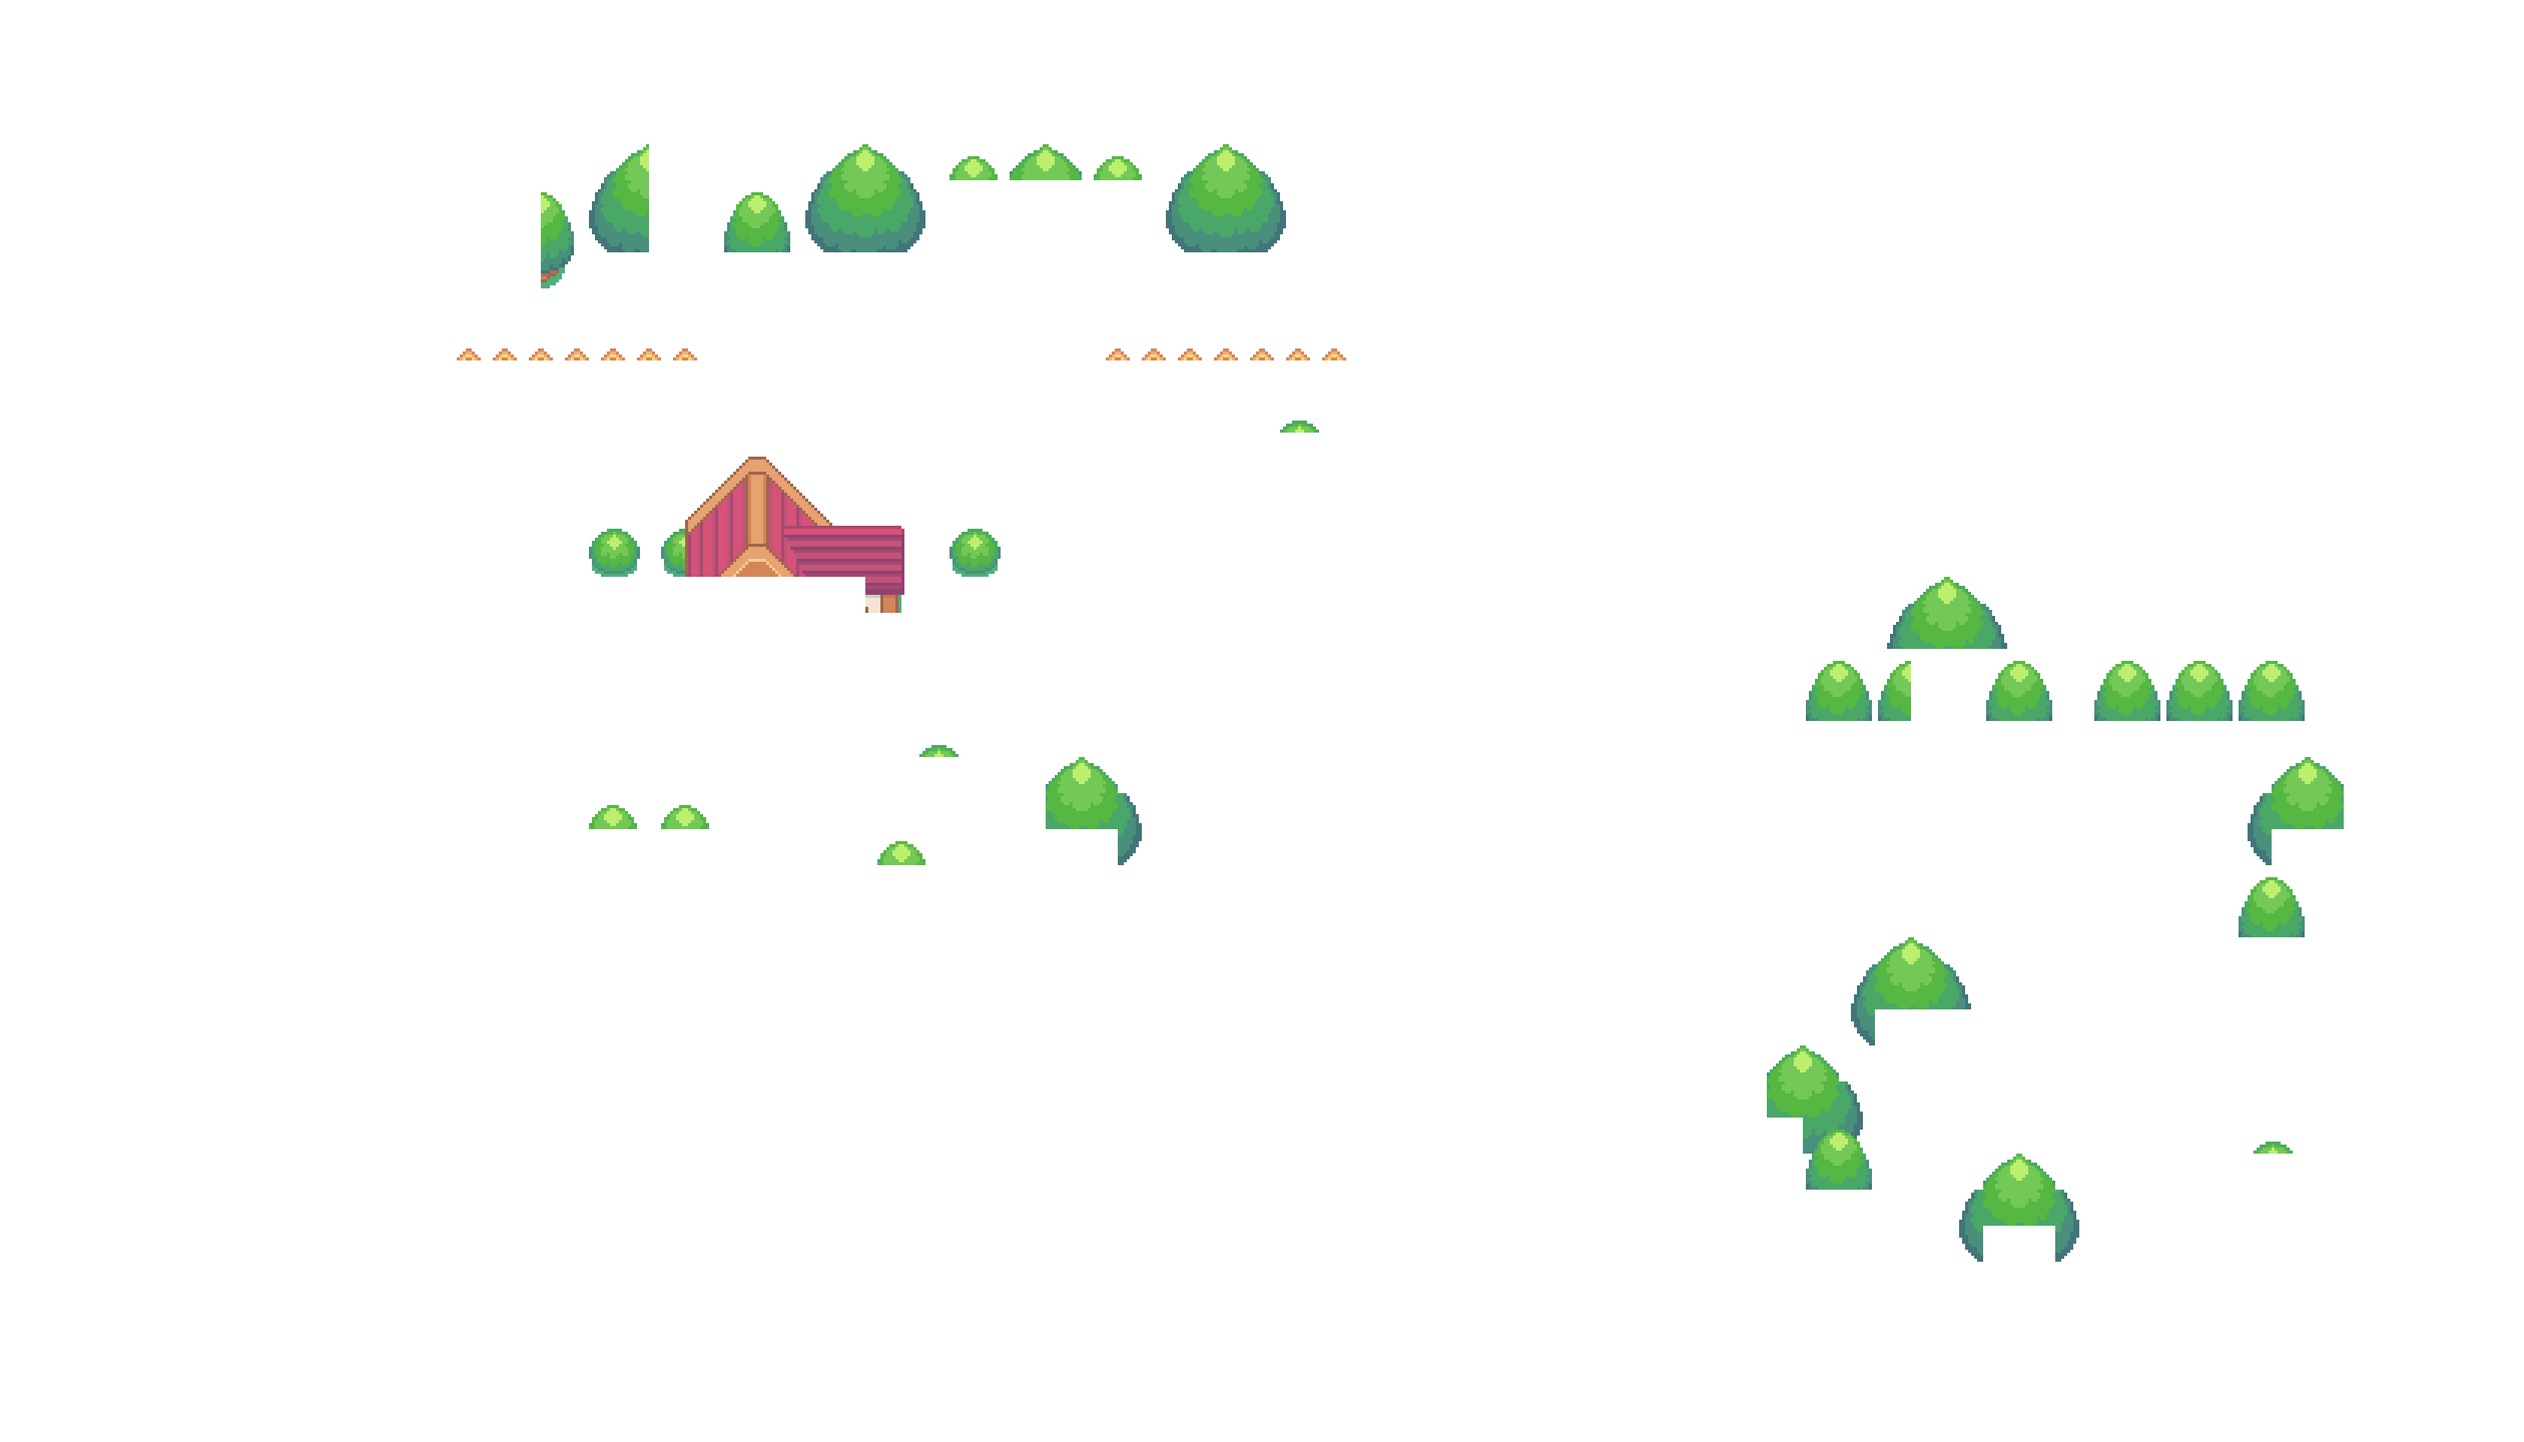
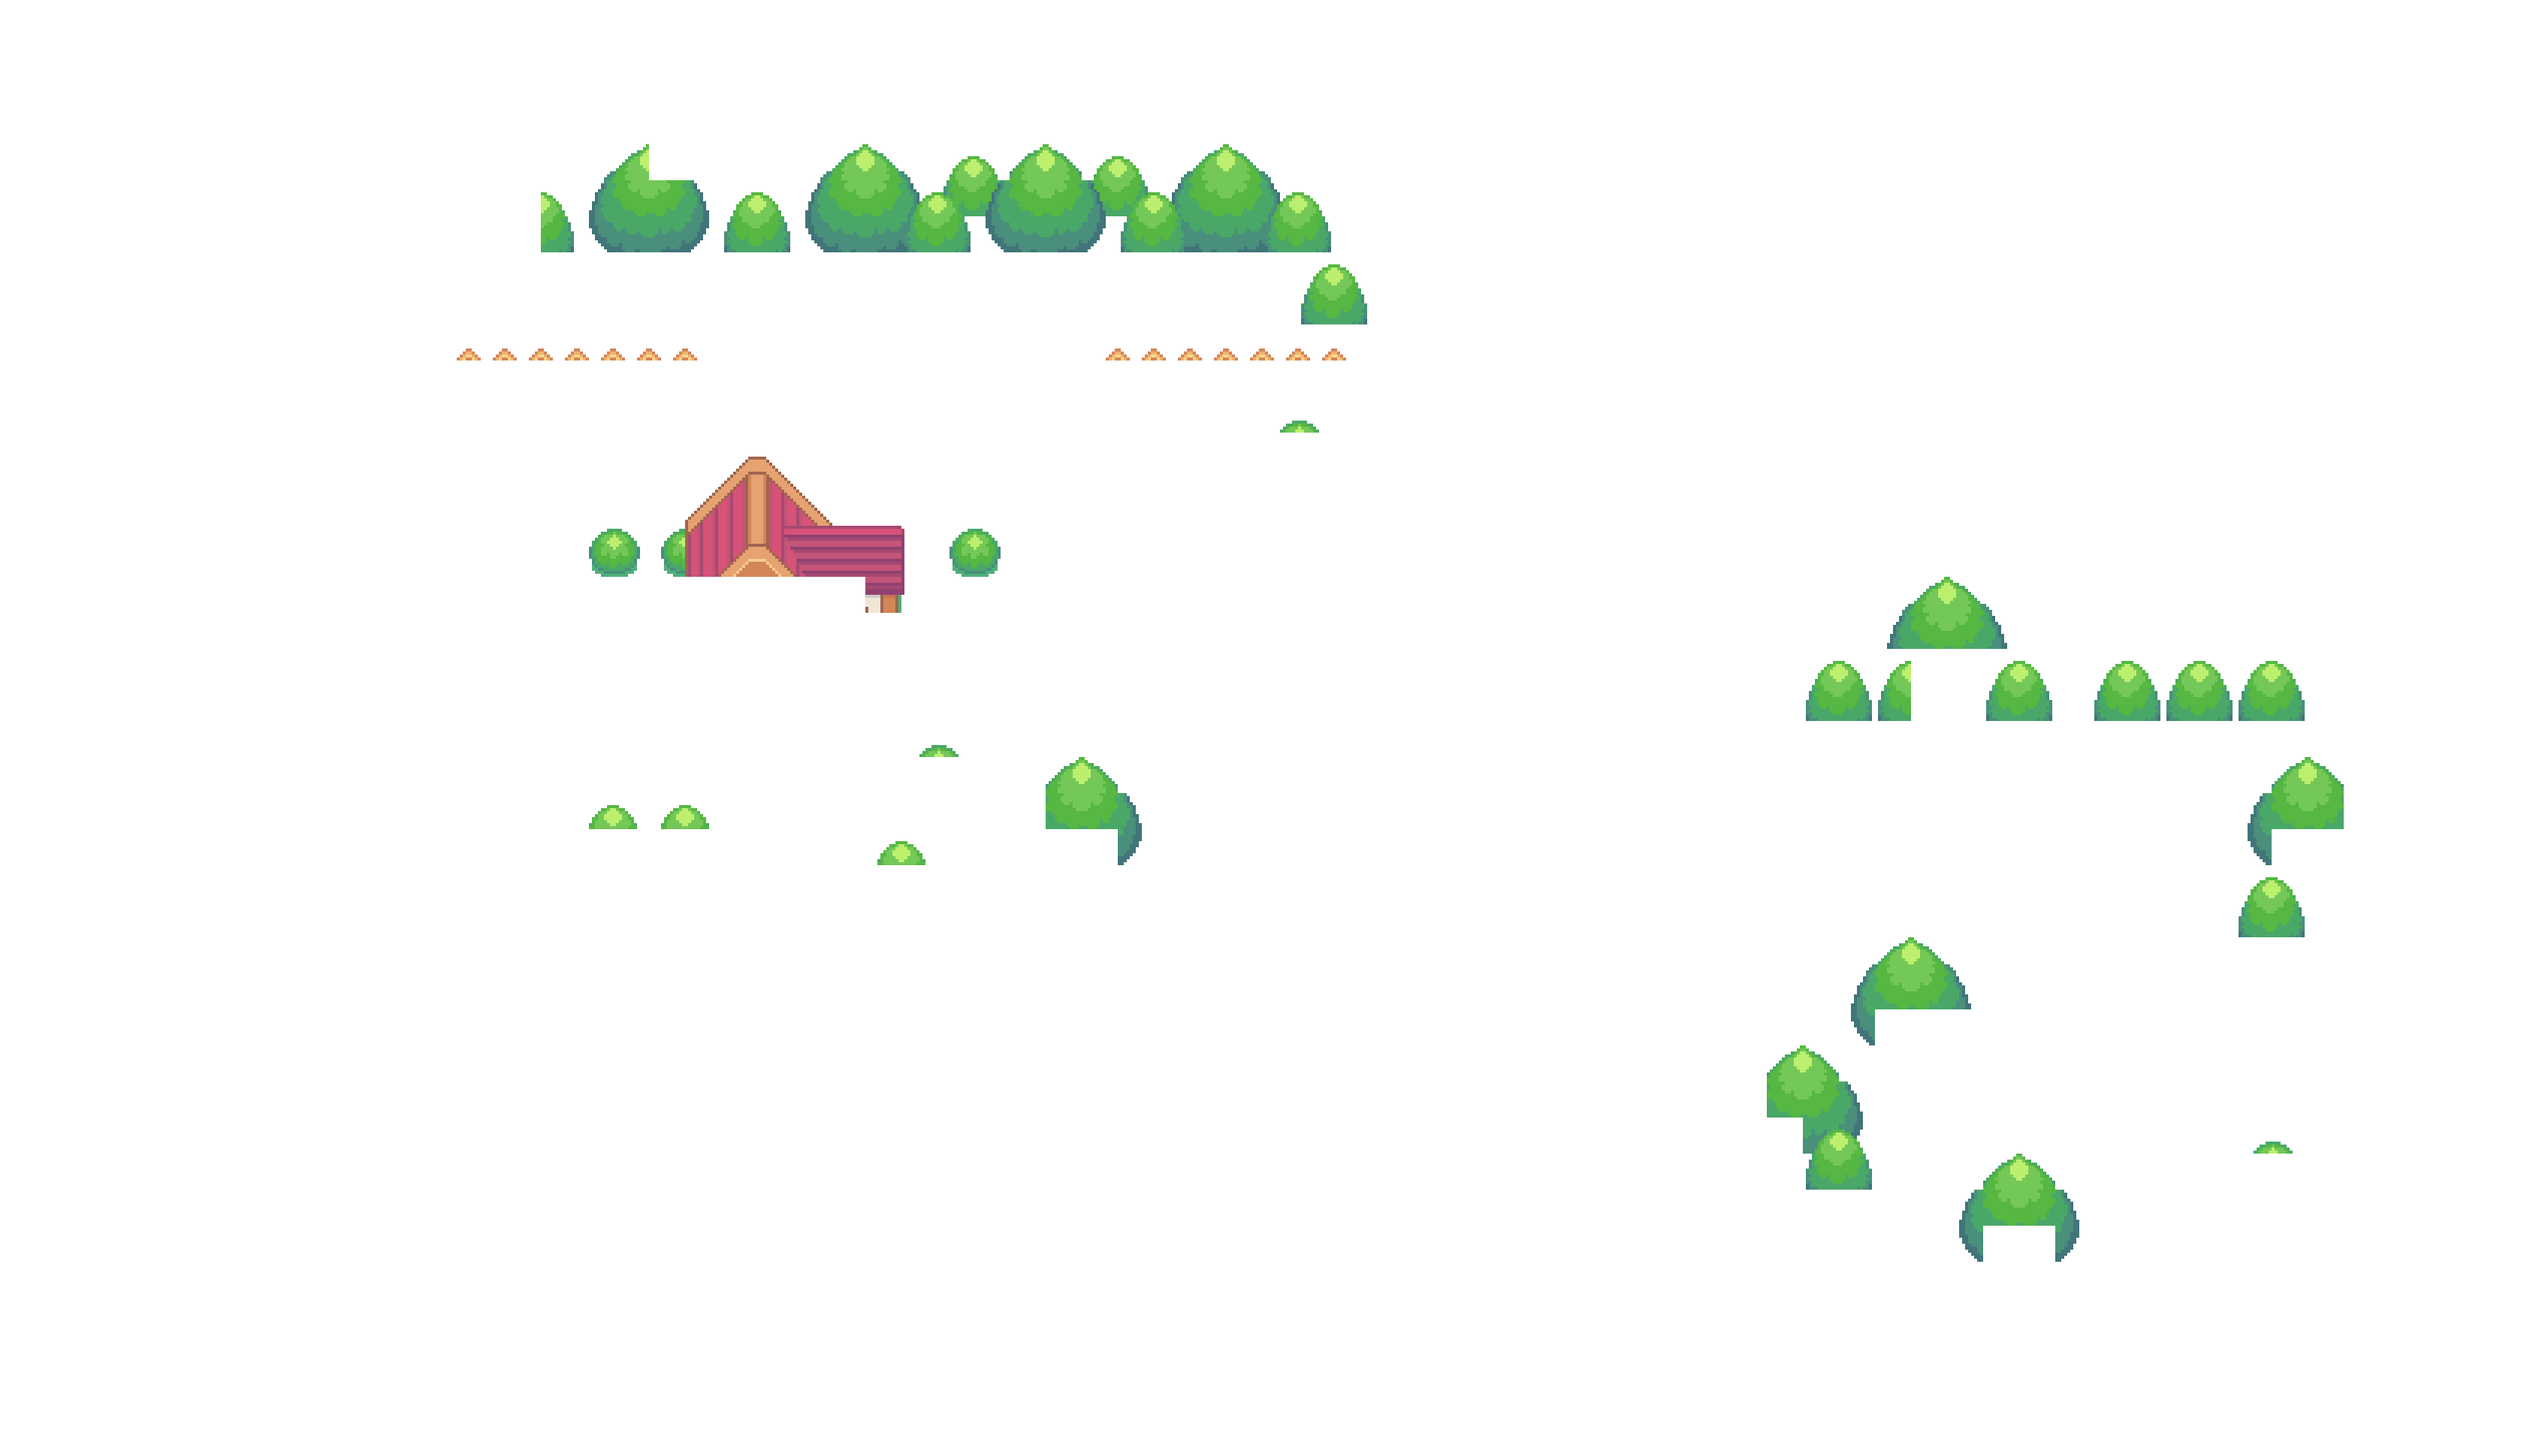
Battle Field Data Added, Map fixed

Changed region(s): [[0.3438, 0.125, 0.4688, 0.1875], [0.5, 0.125, 0.5625, 0.25], [0.25, 0.125, 0.2812, 0.1875]]

diff --git a/data/collisions.js b/data/collisions.js
@@ -1,13 +1,13 @@
-const collisions = [0, 0, 0, 0, 0, 0, 0, 0, 0, 0, 0, 0, 0, 0, 0, 0, 0, 0, 0, 0, 0, 0, 0, 0, 0, 0, 0, 0, 0, 0, 0, 0, 0, 0, 0, 0, 0, 0, 0, 0, 0, 0, 0, 0, 0, 0, 0, 0, 0, 0, 0, 0, 0, 0, 0, 0, 0, 0, 0, 0, 0, 0, 0, 0, 0, 0, 0, 0, 0, 0,
+const collisions =  [0, 0, 0, 0, 0, 0, 0, 0, 0, 0, 0, 0, 0, 0, 0, 0, 0, 0, 0, 0, 0, 0, 0, 0, 0, 0, 0, 0, 0, 0, 0, 0, 0, 0, 0, 0, 0, 0, 0, 0, 0, 0, 0, 0, 0, 0, 0, 0, 0, 0, 0, 0, 0, 0, 0, 0, 0, 0, 0, 0, 0, 0, 0, 0, 0, 0, 0, 0, 0, 0,
     0, 0, 0, 0, 0, 0, 0, 0, 0, 0, 0, 0, 0, 0, 0, 0, 0, 0, 0, 0, 0, 0, 0, 0, 0, 0, 0, 0, 0, 0, 0, 0, 0, 0, 0, 0, 0, 0, 0, 0, 0, 0, 0, 0, 0, 0, 0, 0, 0, 0, 0, 0, 0, 0, 0, 0, 0, 0, 0, 0, 0, 0, 0, 0, 0, 0, 0, 0, 0, 0,
     0, 0, 0, 0, 0, 0, 0, 0, 0, 0, 0, 0, 0, 0, 0, 0, 0, 0, 0, 0, 0, 0, 0, 0, 0, 0, 0, 0, 0, 0, 0, 0, 0, 0, 0, 0, 0, 0, 0, 0, 0, 0, 0, 0, 0, 0, 0, 0, 0, 0, 0, 0, 0, 0, 0, 0, 0, 0, 0, 0, 0, 0, 0, 0, 0, 0, 0, 0, 0, 0,
     0, 0, 0, 0, 0, 0, 0, 0, 0, 0, 0, 0, 1025, 1025, 1025, 1025, 1025, 1025, 1025, 1025, 1025, 1025, 1025, 1025, 1025, 1025, 1025, 1025, 1025, 1025, 1025, 1025, 1025, 1025, 1025, 1025, 1025, 1025, 0, 0, 0, 0, 0, 0, 0, 0, 0, 0, 0, 0, 0, 0, 0, 0, 0, 0, 0, 0, 0, 0, 0, 0, 0, 0, 0, 0, 0, 0, 0, 0,
-    0, 0, 0, 0, 0, 0, 0, 0, 0, 0, 0, 1025, 0, 0, 0, 1025, 0, 0, 0, 1025, 1025, 0, 0, 0, 0, 0, 0, 0, 0, 0, 0, 0, 0, 0, 0, 0, 1025, 0, 1025, 0, 0, 0, 0, 0, 0, 0, 0, 0, 0, 0, 0, 0, 0, 0, 0, 0, 0, 0, 0, 0, 0, 0, 0, 0, 0, 0, 0, 0, 0, 0,
-    0, 0, 0, 0, 0, 0, 0, 0, 0, 0, 0, 1025, 0, 0, 1025, 0, 0, 0, 0, 1025, 1025, 0, 0, 1025, 1025, 1025, 1025, 1025, 1025, 1025, 1025, 1025, 1025, 1025, 1025, 1025, 1025, 0, 1025, 0, 0, 0, 0, 0, 0, 0, 0, 0, 0, 0, 0, 0, 0, 0, 0, 0, 0, 0, 0, 0, 0, 0, 0, 0, 0, 0, 0, 0, 0, 0,
-    0, 0, 0, 0, 0, 0, 0, 0, 0, 0, 0, 1025, 0, 1025, 1025, 0, 0, 0, 1025, 1025, 0, 0, 0, 1025, 0, 0, 0, 1025, 0, 0, 1025, 0, 0, 0, 0, 0, 1025, 0, 1025, 0, 0, 0, 0, 0, 0, 0, 0, 0, 0, 0, 0, 0, 0, 0, 0, 0, 0, 0, 0, 0, 0, 0, 0, 0, 0, 0, 0, 0, 0, 0,
+    0, 0, 0, 0, 0, 0, 0, 0, 0, 0, 0, 1025, 0, 0, 0, 1025, 0, 0, 0, 1025, 1025, 0, 0, 0, 0, 0, 0, 0, 0, 0, 0, 0, 0, 0, 0, 0, 0, 0, 1025, 0, 0, 0, 0, 0, 0, 0, 0, 0, 0, 0, 0, 0, 0, 0, 0, 0, 0, 0, 0, 0, 0, 0, 0, 0, 0, 0, 0, 0, 0, 0,
+    0, 0, 0, 0, 0, 0, 0, 0, 0, 0, 0, 1025, 0, 0, 1025, 0, 0, 0, 0, 1025, 1025, 0, 0, 0, 0, 0, 0, 0, 0, 0, 0, 0, 0, 0, 0, 0, 1025, 0, 1025, 0, 0, 0, 0, 0, 0, 0, 0, 0, 0, 0, 0, 0, 0, 0, 0, 0, 0, 0, 0, 0, 0, 0, 0, 0, 0, 0, 0, 0, 0, 0,
+    0, 0, 0, 0, 0, 0, 0, 0, 0, 0, 0, 1025, 0, 1025, 1025, 0, 0, 0, 1025, 1025, 0, 0, 0, 1025, 1025, 1025, 1025, 1025, 1025, 1025, 1025, 1025, 1025, 1025, 1025, 1025, 1025, 0, 1025, 0, 0, 0, 0, 0, 0, 0, 0, 0, 0, 0, 0, 0, 0, 0, 0, 0, 0, 0, 0, 0, 0, 0, 0, 0, 0, 0, 0, 0, 0, 0,
     0, 0, 0, 0, 0, 0, 0, 0, 0, 0, 0, 1025, 0, 1025, 1025, 1025, 0, 1025, 1025, 0, 1025, 1025, 0, 1025, 1025, 1025, 1025, 0, 1025, 1025, 0, 1025, 1025, 1025, 1025, 1025, 1025, 0, 1025, 0, 0, 0, 0, 0, 0, 0, 0, 0, 0, 0, 0, 0, 0, 0, 0, 0, 0, 0, 0, 0, 0, 0, 0, 0, 0, 0, 0, 0, 0, 0,
-    0, 0, 0, 0, 0, 0, 0, 0, 0, 0, 0, 1025, 0, 1025, 0, 0, 0, 0, 0, 0, 0, 0, 0, 0, 0, 0, 0, 0, 0, 0, 0, 0, 0, 0, 0, 0, 1025, 0, 1025, 0, 0, 0, 0, 0, 0, 0, 0, 0, 0, 0, 0, 0, 0, 0, 0, 0, 0, 0, 0, 0, 0, 0, 0, 0, 0, 0, 0, 0, 0, 0,
-    0, 0, 0, 0, 0, 0, 0, 0, 0, 0, 0, 1025, 0, 1025, 0, 0, 0, 0, 0, 0, 0, 0, 0, 0, 0, 0, 0, 0, 0, 0, 0, 0, 0, 0, 0, 0, 1025, 0, 1025, 0, 0, 0, 0, 0, 0, 0, 0, 0, 0, 0, 0, 0, 0, 0, 0, 0, 0, 0, 0, 0, 0, 0, 0, 0, 0, 0, 0, 0, 0, 0,
+    0, 0, 0, 0, 0, 0, 0, 0, 0, 0, 0, 1025, 0, 1025, 0, 0, 0, 0, 0, 0, 0, 0, 0, 0, 0, 0, 0, 0, 0, 0, 0, 0, 0, 0, 0, 0, 0, 0, 1025, 0, 0, 0, 0, 0, 0, 0, 0, 0, 0, 0, 0, 0, 0, 0, 0, 0, 0, 0, 0, 0, 0, 0, 0, 0, 0, 0, 0, 0, 0, 0,
+    0, 0, 0, 0, 0, 0, 0, 0, 0, 0, 0, 1025, 0, 1025, 0, 0, 0, 0, 0, 0, 0, 0, 0, 0, 0, 0, 0, 0, 0, 0, 0, 0, 0, 0, 0, 0, 1025, 1025, 1025, 0, 0, 0, 0, 0, 0, 0, 0, 0, 0, 0, 0, 0, 0, 0, 0, 0, 0, 0, 0, 0, 0, 0, 0, 0, 0, 0, 0, 0, 0, 0,
     0, 0, 0, 0, 0, 0, 0, 0, 0, 0, 0, 1025, 1025, 1025, 1025, 1025, 1025, 1025, 1025, 1025, 0, 0, 0, 0, 0, 0, 0, 0, 0, 0, 1025, 1025, 1025, 1025, 1025, 1025, 1025, 1025, 1025, 0, 0, 0, 0, 0, 0, 0, 0, 0, 0, 0, 0, 0, 0, 0, 0, 0, 0, 0, 0, 0, 0, 0, 0, 0, 0, 0, 0, 0, 0, 0,
     0, 0, 0, 0, 0, 0, 0, 0, 0, 0, 0, 1025, 0, 0, 0, 0, 0, 0, 0, 0, 0, 0, 0, 0, 0, 0, 0, 0, 0, 0, 0, 0, 0, 0, 0, 0, 0, 0, 1025, 0, 0, 0, 0, 0, 0, 0, 0, 0, 0, 0, 0, 0, 0, 0, 0, 0, 0, 0, 0, 0, 0, 0, 0, 0, 0, 0, 0, 0, 0, 0,
     0, 0, 0, 0, 0, 0, 0, 0, 0, 0, 0, 1025, 0, 0, 0, 0, 0, 0, 0, 0, 0, 0, 0, 0, 0, 0, 0, 0, 0, 0, 0, 0, 0, 0, 0, 1025, 1025, 0, 1025, 0, 0, 0, 0, 0, 0, 0, 0, 0, 0, 0, 0, 0, 0, 0, 0, 0, 0, 0, 0, 0, 0, 0, 0, 0, 0, 0, 0, 0, 0, 0,
